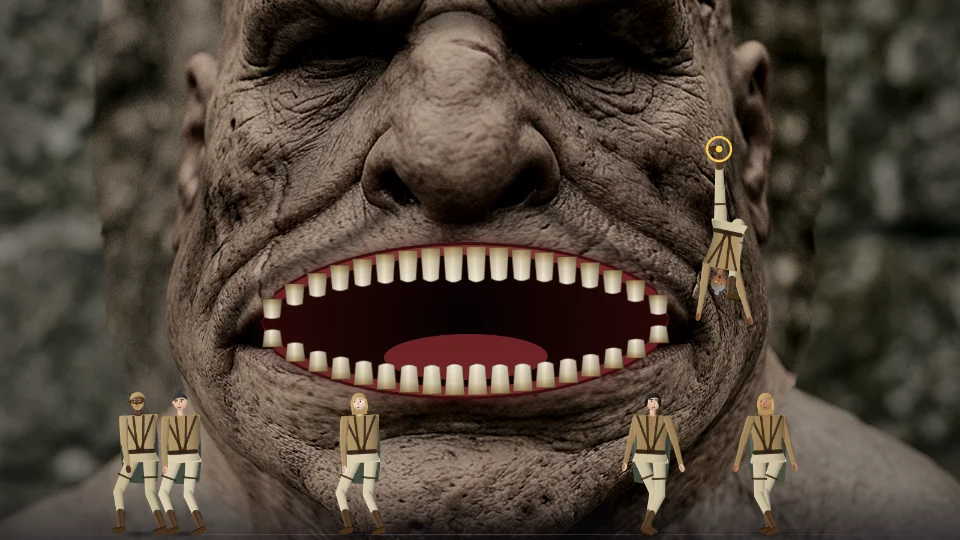
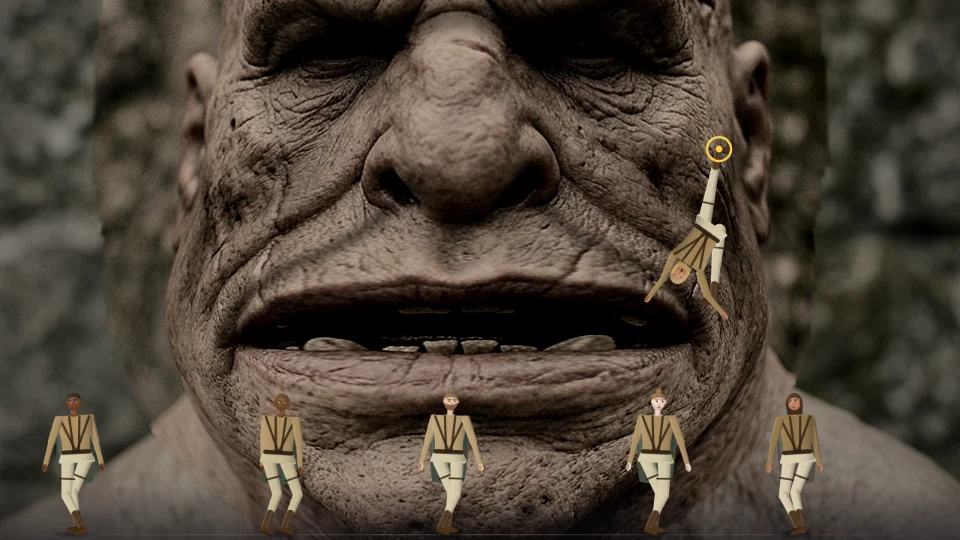
Titán sin dientes ni boca pintados
Las fauces dibujadas encima quedaban raras: ahora se ven la boca y los
dientes de verdad, estirados por la sonrisa en WebGL. La forma de la boca
abierta se sigue usando, sin dibujarla, para tragar y cortar. Captura de
la tarjeta del selector rehecha.

diff --git a/gente/index.html b/gente/index.html
@@ -324,7 +324,7 @@ const EAT_DUR = 0.4;         // duración de la animación de tragar
 // La cámara se pinta en un canvas WebGL debajo de la escena. Dentro del óvalo de la cara se deforma
 // (sonrisa de oreja a oreja, ojos pequeños y hundidos, nariz, mandíbula y cráneo más grandes) y se
 // retoca la piel (más grano, cuencas, arco de la ceja, frente arrugada, surcos, mejillas hundidas).
-// Las fauces con dientes se dibujan encima en 2D, alineadas con esa sonrisa estirada.
+// No se pinta boca ni dientes encima: se ven los de verdad, estirados por la sonrisa.
 const tgl = document.getElementById("tgl");
 const TITAN = { grin: 1.0, eyes: -0.38, nose: 0.3, jaw: 0.22, head: 0.12 };
 const T_EXT = 1.25, T_FM = 256;
@@ -513,16 +513,9 @@ function renderTitan() {
   gl.drawArrays(gl.TRIANGLE_STRIP, 0, 4);
 }
 
-// ---------- Fauces del titán (2D, encima de la cara) ----------
+// ---------- Forma de la boca abierta (no se dibuja: sirve para tragar y para cortar) ----------
 // Media altura de la abertura a la distancia x del centro (0 en las comisuras)
 function mawHalf(m, x) { const u = 1 - (2 * x / m.wid) ** 2; return u <= 0 ? 0 : m.gap * Math.pow(u, 0.65); }
-function mawLocalPath(m, pad = 0) {
-  const N = 28;
-  ctx.beginPath();
-  for (let i = 0; i <= N; i++) { const x = -m.wid / 2 + m.wid * i / N, h = mawHalf(m, x); i ? ctx.lineTo(x, -h - (h > 0 ? pad : 0)) : ctx.moveTo(x, 0); }
-  for (let i = N; i >= 0; i--) { const x = -m.wid / 2 + m.wid * i / N, h = mawHalf(m, x); ctx.lineTo(x, h + (h > 0 ? pad : 0)); }
-  ctx.closePath();
-}
 // La misma abertura en coordenadas de pantalla, añadida al trazado actual (para recortar)
 function addMawWorld(m) {
   const N = 28, c = Math.cos(m.ang), s = Math.sin(m.ang);
@@ -537,53 +530,6 @@ function insideMaw(m, p, pad = 0) {
   if (Math.abs(x) > m.wid / 2) return false;
   return Math.abs(y) <= mawHalf(m, x) + pad;
 }
-function drawMaw(m, teethOnly = false) {
-  const w = m.wid, th = w * 0.075;   // alto de un diente
-  ctx.save(); ctx.translate(m.x, m.y); ctx.rotate(m.ang);
-  if (!teethOnly) {
-    // labios desgarrados: borde oscuro y blando que funde las fauces con la piel
-    ctx.save(); ctx.shadowColor = "rgba(40,6,6,0.85)"; ctx.shadowBlur = w * 0.06;
-    mawLocalPath(m, th * 0.42); ctx.fillStyle = "#3a0d0d"; ctx.fill(); ctx.restore();
-    // encías
-    mawLocalPath(m, th * 0.32);
-    const gg = ctx.createLinearGradient(0, -m.gap - th, 0, m.gap + th);
-    gg.addColorStop(0, "#9a3a3c"); gg.addColorStop(0.5, "#5a1418"); gg.addColorStop(1, "#8e3336");
-    ctx.fillStyle = gg; ctx.fill();
-    // garganta y lengua
-    mawLocalPath(m);
-    const cg = ctx.createRadialGradient(0, 0, 0, 0, 0, w * 0.5);
-    cg.addColorStop(0, "#050101"); cg.addColorStop(1, "#2a0707");
-    ctx.fillStyle = cg; ctx.fill();
-    if (m.gap > th * 0.9) { ctx.fillStyle = "#6e2226"; ctx.beginPath(); ctx.ellipse(0, m.gap * 0.55, w * 0.2, m.gap * 0.35, 0, 0, Math.PI * 2); ctx.fill(); }
-  }
-  // dientes: fila de abajo y luego la de arriba, que al cerrar se encajan
-  const N = 18, lw = Math.max(0.8, w * 0.003);
-  for (const row of [1, -1]) {
-    for (let i = 0; i < N; i++) {
-      const x0 = -w / 2 + w * i / N, x1 = -w / 2 + w * (i + 1) / N, xc = (x0 + x1) / 2, tw = x1 - x0;
-      const edge = Math.abs(2 * xc / w);
-      const base = mawHalf(m, xc) + th * 0.28;
-      const len = th * (1.15 - 0.55 * edge) * (row < 0 ? 1.08 : 0.95);
-      const pad = tw * 0.06, tip = tw * 0.18;
-      const yb = row * base, yt = row * (base - len);
-      ctx.beginPath();
-      ctx.moveTo(x0 + pad, yb); ctx.lineTo(x1 - pad, yb);
-      ctx.lineTo(x1 - pad - tip * 0.5, yt + row * len * 0.12);
-      ctx.quadraticCurveTo(xc, yt - row * len * 0.04, x0 + pad + tip * 0.5, yt + row * len * 0.12);
-      ctx.closePath();
-      const tgd = ctx.createLinearGradient(0, yb, 0, yt);
-      tgd.addColorStop(0, "#a48a5d"); tgd.addColorStop(0.35, "#ddd0b0"); tgd.addColorStop(1, "#f5eedf");
-      ctx.fillStyle = tgd; ctx.fill();
-      // curvatura: cada diente más oscuro en los lados, y los de las comisuras en sombra
-      const sg = ctx.createLinearGradient(x0, 0, x1, 0);
-      sg.addColorStop(0, `rgba(30,18,8,${0.22 + 0.3 * edge})`); sg.addColorStop(0.45, "rgba(30,18,8,0)"); sg.addColorStop(1, `rgba(30,18,8,${0.3 + 0.3 * edge})`);
-      ctx.fillStyle = sg; ctx.fill();
-      ctx.strokeStyle = "rgba(70,45,25,0.45)"; ctx.lineWidth = lw; ctx.stroke();
-    }
-  }
-  ctx.restore();
-}
-
 // Grupos de puntos vivos unidos por varillas (para saber qué trozo cae tras un mordisco)
 function liveComponents(per) {
   const P = per.pts, n = P.length, adj = P.map(() => []);
@@ -1621,8 +1567,7 @@ function drawTitanMaw(m) {
 function draw(t) {
   ctx.clearRect(0, 0, W, H);
   drawEnvironment();
-  if (titanGL && titanGL.shown) { if (tg) drawMaw(tg.maw); }
-  else drawTitanFace();                       // sin WebGL: la máscara pintada de antes
+  if (!(titanGL && titanGL.shown)) drawTitanFace();   // sin WebGL: la máscara pintada de antes
   for (const per of people) drawShadow(per);
   drawParts();
   const rest = people.slice().sort((a, b) => a.held - b.held);
@@ -1642,8 +1587,6 @@ function draw(t) {
     drawCut = false;
     if (per.bitten) drawStumps(per);
   }
-  // mientras te comes a alguien, los dientes quedan por delante de su cuerpo
-  if (tg && titanGL && titanGL.shown && people.some(p => p.chewing)) drawMaw(tg.maw, true);
   drawPartsTop();   // sangre por encima de todo
 
   // anillo del puntero que se cierra según la pinza (sin esqueleto de la mano ni aro de boca)

diff --git a/index.html b/index.html
@@ -62,7 +62,7 @@
 
   <div class="modes">
     <a class="mode gente" href="gente/">
-      <img class="art" src="img/gente.webp?v=1" width="960" height="540" alt="Cara de titán con las fauces abiertas y soldados alrededor; uno cuelga de un pie junto a la boca">
+      <img class="art" src="img/gente.webp?v=2" width="960" height="540" alt="Cara de titán con la boca estirada de oreja a oreja y soldados alrededor; uno cuelga de un pie junto a la boca">
       <div class="body">
         <h2>Coge a la gente</h2>
         <p>Hay gente paseando por el escenario. Si acercas la mano, huyen. Cógelos de la cabeza, una mano o un pie y el resto del cuerpo cuelga. Te conviertes en titán: abre la boca y cómetelos, o muérdelos por la mitad.</p>

diff --git a/README.md b/README.md
@@ -3,7 +3,7 @@
 Juegos con reconocimiento por cámara (MediaPipe, en el navegador: el vídeo no sale del dispositivo).
 
 - `/` — selector de modos (de momento, uno). `/cara` redirige aquí: el modo «Moldea tu cara» se retiró el 2026-10-19 porque no iba bien; está en el historial de git.
-- `/gente/` — **Coge a la gente**: personas realistas que pasean y huyen de tu mano; las coges por la cabeza, las manos o los pies y el resto del cuerpo cuelga (física de Verlet). Se levantan solas. Tu cara se convierte en la de un titán (tu imagen real deformada en WebGL, con fauces encima): abre la boca para comértelos o ciérrala a medias para partirlos por la línea de los dientes. Sonido sintetizado con Web Audio.
+- `/gente/` — **Coge a la gente**: personas realistas que pasean y huyen de tu mano; las coges por la cabeza, las manos o los pies y el resto del cuerpo cuelga (física de Verlet). Se levantan solas. Tu cara se convierte en la de un titán (tu imagen real deformada en WebGL, sin nada pintado encima): abre la boca para comértelos o ciérrala a medias para partirlos por la línea de los dientes. Sonido sintetizado con Web Audio.
 
 Pinza (pulgar + índice) para agarrar, abrir los dedos para soltar.
 
